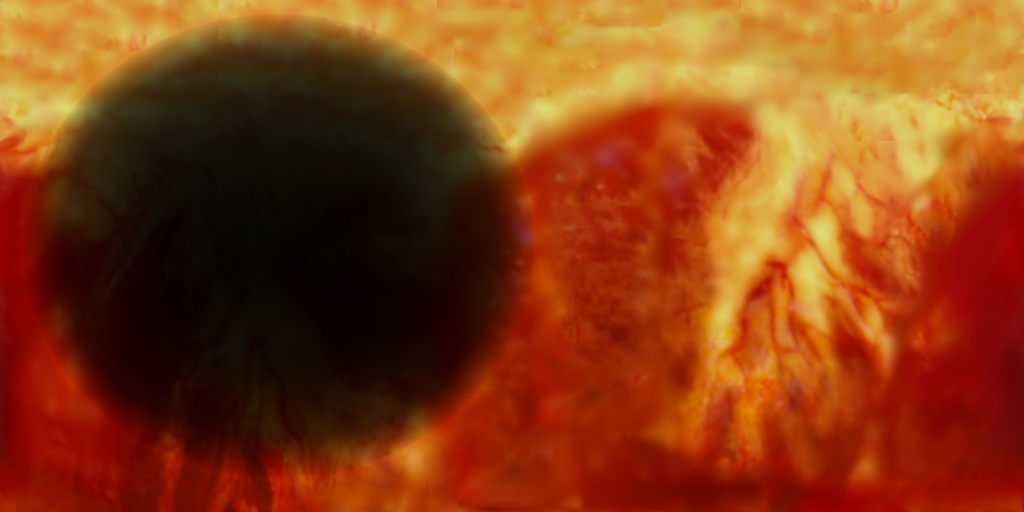
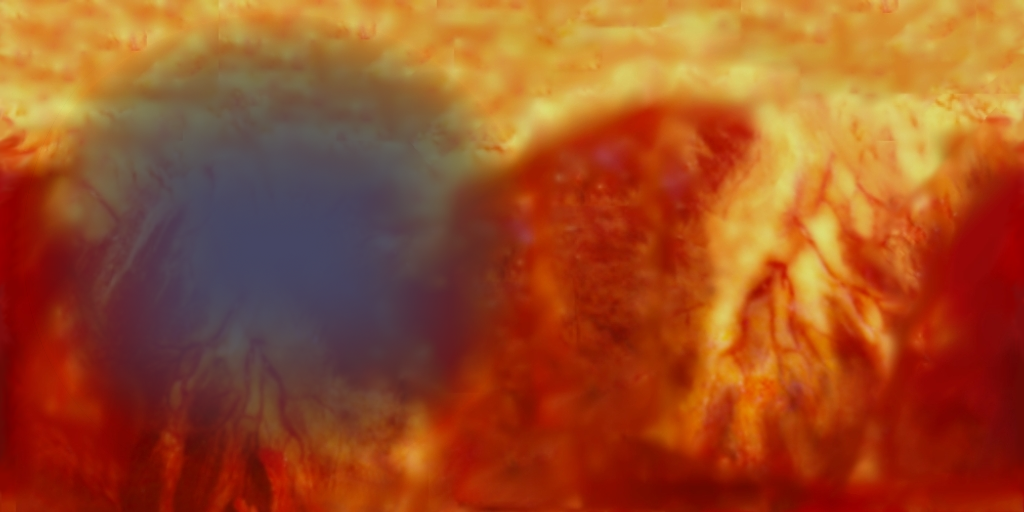
Merge model labels and infarct texture change

diff --git a/index.html b/index.html
@@ -19,6 +19,7 @@
 		<script src="js/zinc_threejs_control.js"></script>
 		<script src="js/zinc_3js_renderer.js"></script>
 		<script src="js/show_hide_answer.js" ></script>
+		<script src="js/Add3DLabel.js" ></script>
 		<script src="http://ajax.googleapis.com/ajax/libs/dojo/1.10.4/dojo/dojo.js" data-dojo-config="async: 1, parseOnLoad: true" ></script>
 		<script src="../../dojo-release-1.11.2/dojo/dojo.js" data-dojo-config="async: 1, parseOnLoad: true" ></script>
 		<script src="js/LVPandECG.js" ></script>
@@ -751,7 +752,7 @@
 		var zincRenderer = new Zinc.Renderer(container, window);
 		Zinc.defaultMaterialColor = 0xFFFF9C;
 		zincRenderer.initialiseVisualisation();
-		zincRenderer.getThreeJSRenderer().setClearColor( 0xffffff, 0);
+		zincRenderer.getThreeJSRenderer().setClearColor( 0x000000, 1);
 		var halfHeartFlag = false;
 		var leftPanelGreenIDs = ["initialNormal", "leftHeartElectricity",  "leftHeartAttack",
 			 "leftHeartFailure"];
@@ -1464,6 +1465,15 @@
 				scene.setDuration(scene.getDuration() / rateScaling);
 				scene.loadViewURL(viewURL);
 				scene.loadMetadataURL(metaURL, meshReady(previousCamera));
+				// Same label position seems to work with all models but ArrythmiaElectricity
+				// arguments are as followed scene, label, x, y, z and scaling
+				if (model_name == "ArrythmiaElectricity") {
+					addLabelToScene(scene, "RV", 0.0, 38.639515,50.421283, 15.0);
+					addLabelToScene(scene, "LV", 0.0,-38.639515,50.421283, 15.0);				
+				} else {
+					addLabelToScene(scene, "RV", -30.056679,88.639515,-0.421283, 30.0);
+					addLabelToScene(scene, "LV", -60.056679,-28.639515,-0.421283, 30.0);
+				}
 				zincRenderer.setCurrentScene(scene);
 				modelToSceneArray[model_name] = scene;
 			} else {

diff --git a/js/Add3DLabel.js b/js/Add3DLabel.js
@@ -1,0 +1,42 @@
+var createFont = function(text, x, y, z, scaling) {
+	//create an element to render the font on
+	var bitmap = document.createElement('canvas');
+	bitmap.width = 256;
+	bitmap.height = 256;
+	var g = bitmap.getContext('2d');
+	//draw boundary for debugging
+	//g.strokeStyle = '#ff0000';
+	//g.strokeRect(0, 0, 256, 256);
+
+	g.textBaseline = "alphabetic"; 
+
+	var metrics = g.measureText( text ); 
+	var textWidth = metrics.width; 
+	
+	//draw the font on the element
+	g.fillStyle = '#ffffff';
+	g.textAlign = "centre"; 
+	g.font = '60px Arial';
+    g.fillText(text, 128, 128);
+	g.strokeStyle = '#ffffff';
+	g.strokeText(text, 128, 128);
+	
+	//create a texture with the element and put it on threejs object
+	var texture = new THREE.Texture(bitmap);
+	texture.needsUpdate = true;
+	var spriteMaterial = new THREE.SpriteMaterial( {  map: texture, color: '#ffffff'} ); 
+	var sprite = new THREE.Sprite( spriteMaterial );   
+
+	//scale up the texture
+	sprite.scale.set( scaling, scaling, 1.0 );
+
+	// now set the position at the correct 3D space	
+	sprite.position.set(x, y, z);
+	return sprite;
+}
+
+var addLabelToScene = function(scene, text, x, y, z, scaling) {
+	var label = createFont(text, x, y, z, scaling);
+	scene.addObject(label);
+	console.log(label);
+}

diff --git a/js/LVPandECG.js b/js/LVPandECG.js
@@ -130,8 +130,9 @@ var showLVPInternal = function(chartName) {
 var rescaleXAxis = function(viewData) {
 	var len = viewData.length;
 	var max_x = viewData[len - 1].x;
+	var min_x = viewData[0].x;
 	for (var i = 0; i < len; i++) {
-		viewData[i].x = viewData[i].x / max_x * 100.0;
+		viewData[i].x = (viewData[i].x - min_x) / (max_x - min_x) * 100.0;
 	}
 
 	return viewData;

diff --git a/js/zinc_3js_renderer.js b/js/zinc_3js_renderer.js
@@ -687,7 +687,6 @@ Zinc.Scene = function ( containerIn, rendererIn) {
 	};
 	
 	this.onWindowResize = function() {
-//		console.log("temp")
 		zincCameraControls.onResize();
 		_this.camera.aspect = container.clientWidth / container.clientHeight;
 		_this.camera.updateProjectionMatrix();
